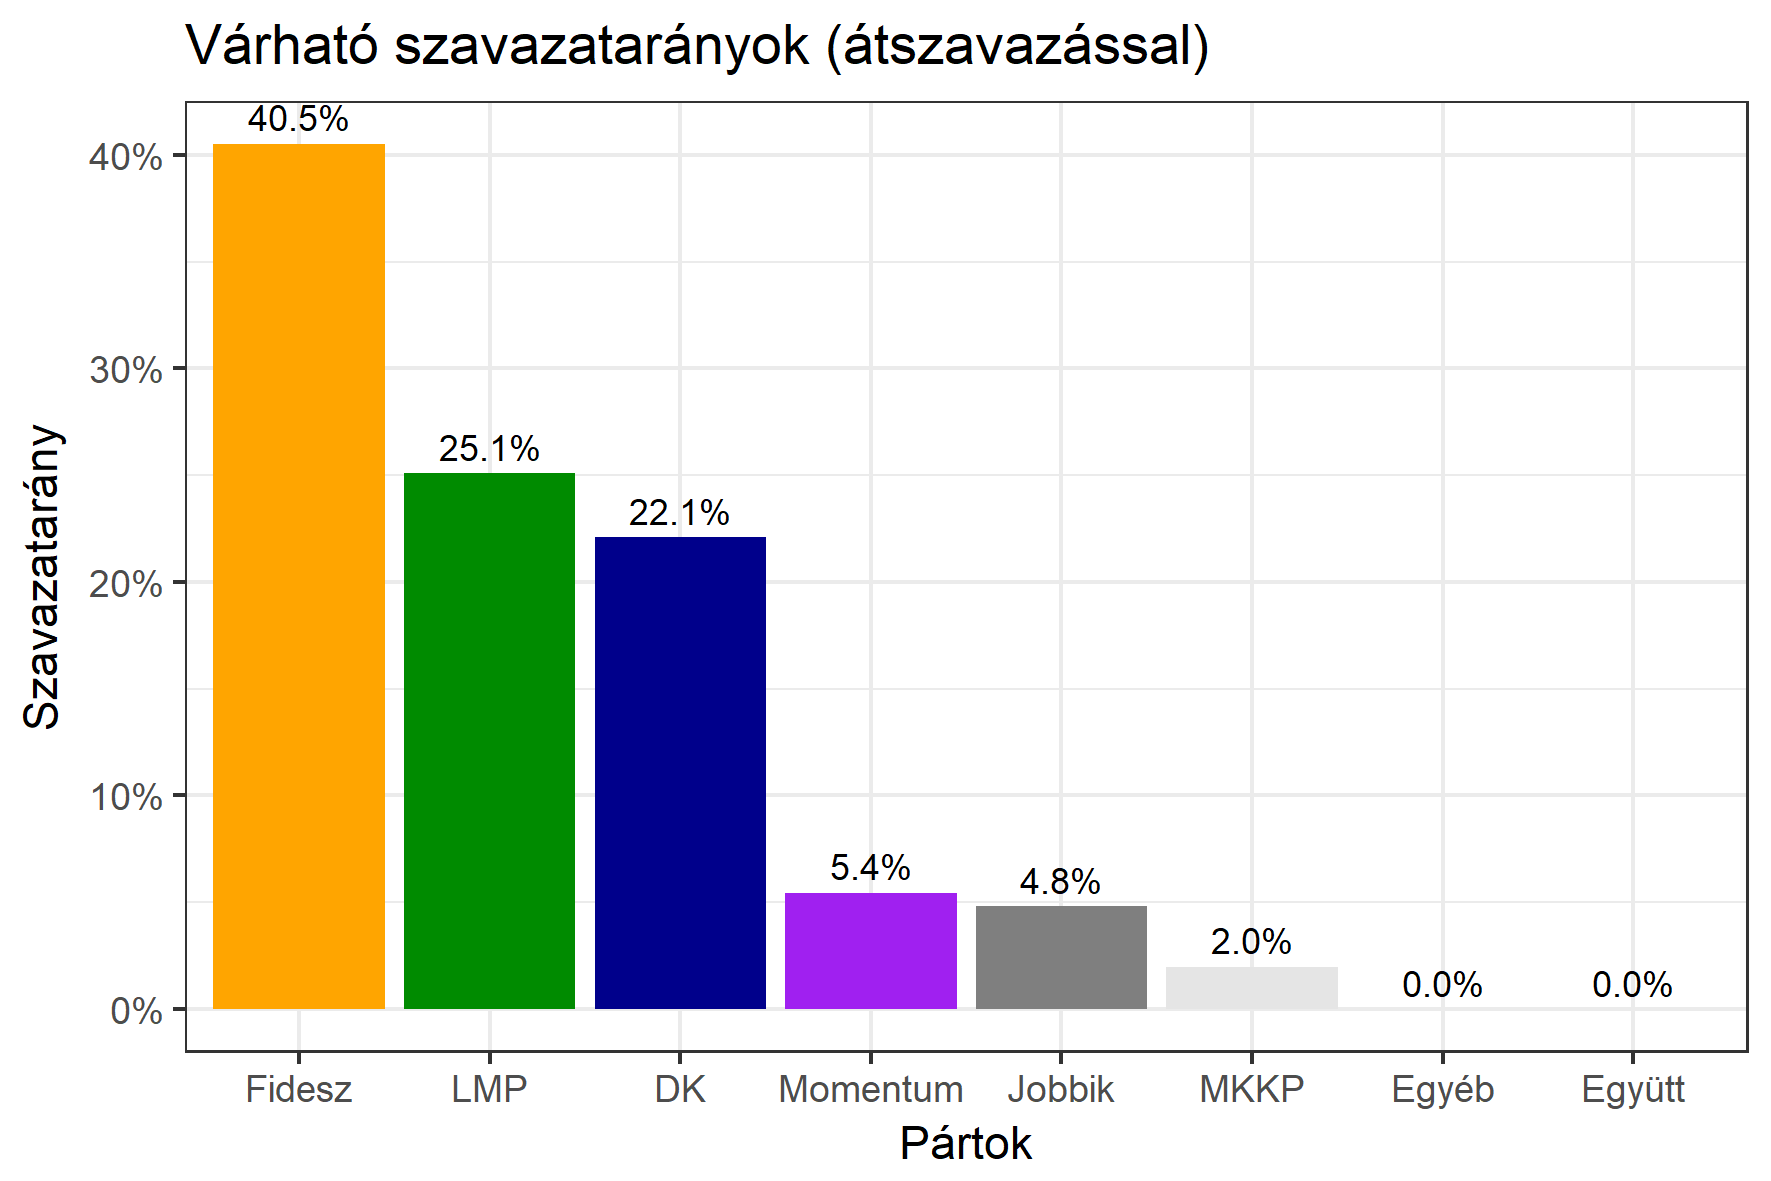
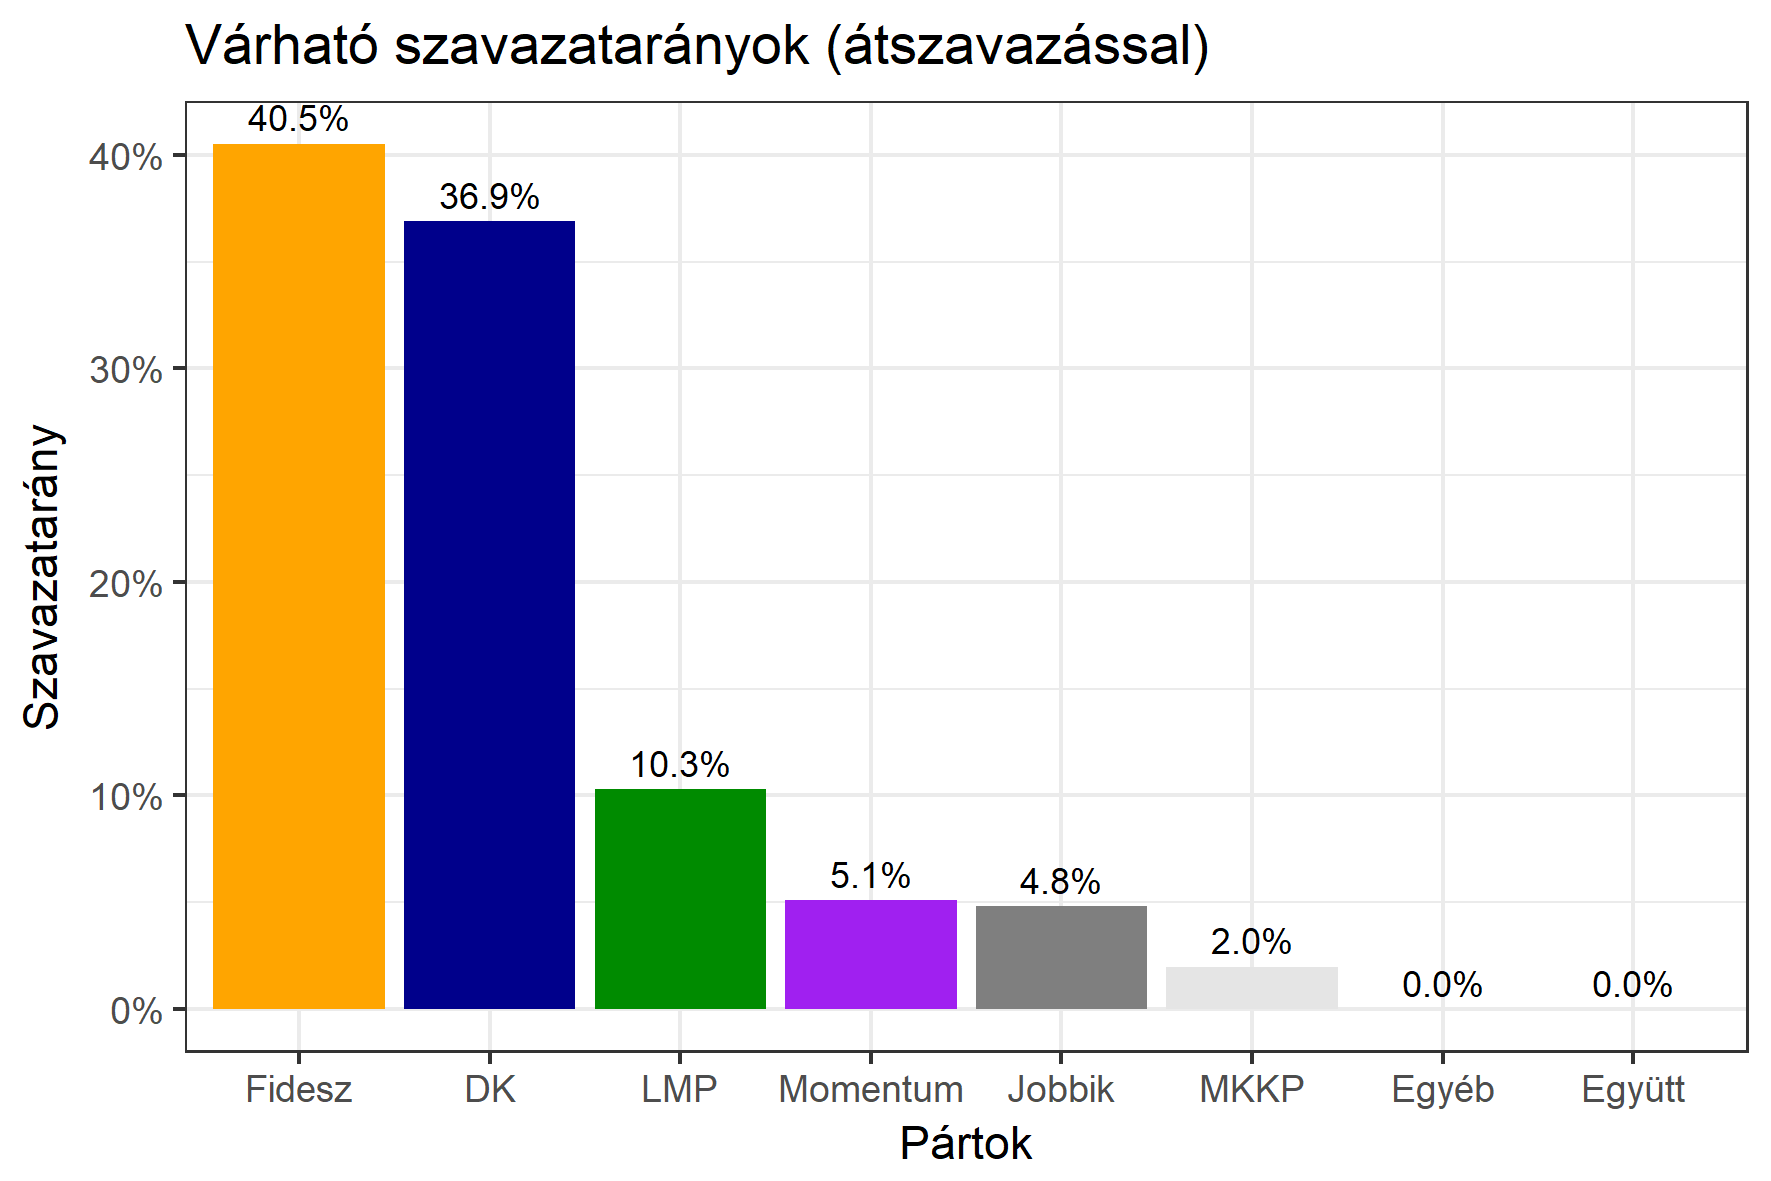
bp4 fordul

Changed region(s): [[0.2174, 0.1524, 0.528, 0.8535], [0.3416, 0.9145, 0.4037, 0.945], [0.2484, 0.9145, 0.3106, 0.945]]

diff --git a/bp4.md b/bp4.md
@@ -27,20 +27,20 @@ permalink: /bp4
               <tbody>
              <tr>
                   <td>Varga Mihály - Fidesz-KDNP <img src="images/fideszkdnp_logo.png" style="width:55px;height:30px;"></td>
-				   <td id="id_fidesz">39.6% &emsp; <span id="id_fidesz2">(40.0%)</span></td>
+				   <td id="id_fidesz">39.6% &emsp; <span id="id_fidesz2">(40.5%)</span></td>
 			</tr>
 			<tr><td>Kovács Tamás - Jobbik <img src="images/jobbik_logo.png" style="width:23px;height:30px;"></td> <td id="id_jobbik">6.3% &emsp; <span id="id_jobbik2">(4.8%)</span></td></tr>
 <tr>
                   <td>Niedermüller Péter - DK <img src="images/dk_logo.png" style="width:34px;height:30px;"></td>
-				   <td id="id_baloldal">25.0% &emsp; <span id="id_baloldal2">(32.1%)</span></td>
+				   <td id="id_baloldal">25.0% &emsp; <span id="id_baloldal2">(36.9%)</span></td>
 			</tr>
 			<tr>
                   <td>Ungár Péter - LMP <img src="images/lmp_logo.png" style="width:52px;height:30px;"></td>
-				   <td id="id_lmp">15.5% &emsp; <span id="id_lmp2">(15.1%)</span></td>
+				   <td id="id_lmp">15.5% &emsp; <span id="id_lmp2">(10.3%)</span></td>
 			</tr>
 			<tr>
 				  <td>Benedek Márton - Momentum <img src="images/momentum_logo.png" style="width:44px;height:30px;"></td>
-				   <td id="id_momentum">8.2% &emsp; <span id="id_momentum2">(5.4%)</span></td>
+				   <td id="id_momentum">8.2% &emsp; <span id="id_momentum2">(5.1%)</span></td>
 			</tr>   
 <tr>
                   <td>Juhász Veronika - MKKP <img src="images/mkkp_logo.png" style="width:49px;height:30px;"></td>

diff --git a/pe4.md b/pe4.md
@@ -30,7 +30,7 @@ permalink: /pe4
 			</tr>
 			<tr><td>Fehér Zsolt - Jobbik <img src="images/jobbik_logo.png" style="width:23px;height:30px;"></td> <td id="id_jobbik">22.0% &emsp; <span id="id_jobbik2">(26.7%)</span></td></tr>
 <tr>
-                  <td>Krauze István - DK <img src="images/dk_logo.png" style="width:34px;height:30px;"></td>
+                  <td><strong>VISSZALÉPETT AZ LMP JAVÁRA</strong> - DK <img src="images/dk_logo.png" style="width:34px;height:30px;"></td>
 				   <td id="id_baloldal">18.8% &emsp; <span id="id_baloldal2">(18.4%)</span></td>
 			</tr>
 			<tr>

diff --git a/pe5.md b/pe5.md
@@ -35,7 +35,7 @@ permalink: /pe5
 				   <td id="id_baloldal">22.5% &emsp; <span id="id_baloldal2">(29.6%)</span></td>
 			</tr>
 			<tr>
-                  <td>dr. Kiss Csaba - LMP <img src="images/lmp_logo.png" style="width:52px;height:30px;"></td>
+                  <td>VISSZALÉPETT A DK JAVÁRA</strong> - LMP <img src="images/lmp_logo.png" style="width:52px;height:30px;"></td>
 				   <td id="id_lmp">12.8% &emsp; <span id="id_lmp2">(10.4%)</span></td>
 			</tr>
 			<tr>
